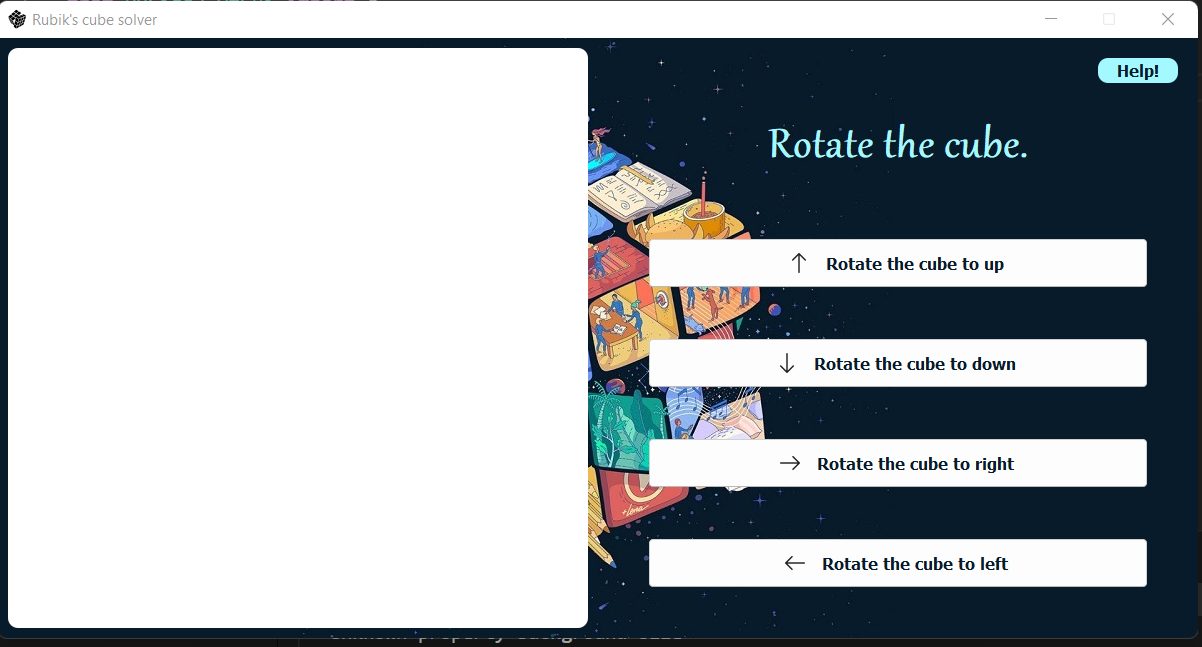
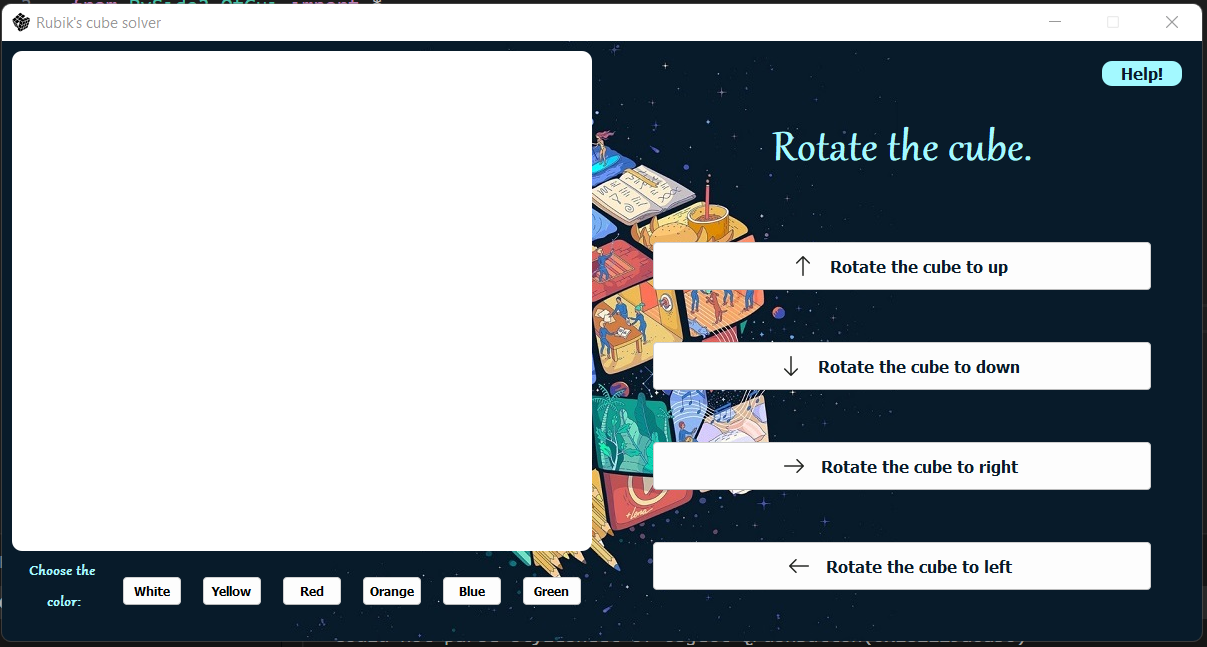
update interface.py

Changed region(s): [[0.0, 0.0, 1.0, 1.0], [0.6156, 0.1855, 0.8619, 0.2473]]

diff --git a/code/interface.py b/code/interface.py
@@ -26,9 +26,11 @@ class FirstPage(QMainWindow):
         self.rubik_3D.hide()
         
         self.white_widget = None
+        
         self.list_buttons = []
+        self.list_buttons_colors = []
         self.MOVES = ["up", "down", "right", "left"]
-        self.COLORS = ["Yellow", "Red", "Blue", "Green", "Black", "White"]
+        self.COLORS = ["White", "Yellow", "Red", "Orange", "Blue", "Green"]
 
     def show_Window_title(self, title_index = True):     
         title = "Rubik's Cube Solver" if title_index else "Rotate the cube."
@@ -131,13 +133,15 @@ class FirstPage(QMainWindow):
         self.hide_manually_button()
         if self.white_widget is None:
             self.widget_3d = QLabel(self)
-            self.widget_3d.setGeometry(10, 10, 580, 580)
+            self.widget_3d.setGeometry(10, 10, 580, 500)
             self.widget_3d.setStyleSheet(
             "   background-color: white;" 
             "   border-radius: 10px;"
             )
         self.widget_3d.show()
         self.show_buttons()
+        self.show_colors()
+
     
     def show_buttons(self):
 
@@ -167,3 +171,46 @@ class FirstPage(QMainWindow):
             self.list_buttons.append(button)
 
         for button in self.list_buttons:  button.show()
+        
+    def show_colors(self):
+        title_color = QLabel("Choose the \n color:", self)
+        title_color.setGeometry(10, 520, 100, 50)
+
+        # add a shadow effect to the title label
+        shadow = QGraphicsDropShadowEffect()
+        shadow.setBlurRadius(30)
+        shadow.setColor(QColor(0, 0, 0, 100))
+        shadow.setOffset(0, 0)
+        title_color.setGraphicsEffect(shadow)
+
+        font = QFont()
+        font.setPointSize(10)
+        font.setFamily("Gabriola")
+        font.setBold(True)
+
+        title_color.setFont(font)
+        title_color.setAlignment(Qt.AlignCenter)
+        title_color.setStyleSheet("color: #a3f9ff;")
+
+        iteration = 1
+        for color in self.COLORS:
+            button = QPushButton("{}".format(color), self)
+            button.setGeometry(40 + 80 * iteration, 535, 60, 30)
+            button.setStyleSheet(
+                "QPushButton {"
+                "   color: #000000;"
+                "   font-size: 12px;"
+                "   font-weight: bold;"
+                "}"
+                "QPushButton:hover {"
+                "   background-color: #{color};" 
+                "   color: white;"
+                "}"
+            )
+            iteration += 1
+            self.list_buttons_colors.append(button)
+            
+        
+        for button in self.list_buttons_colors:  button.show()
+
+        title_color.show()
